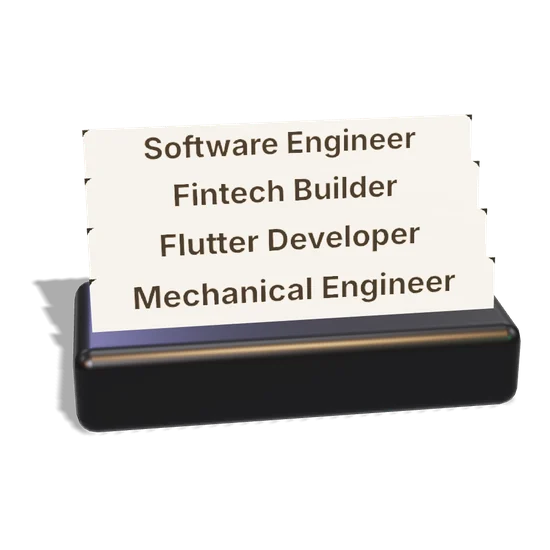
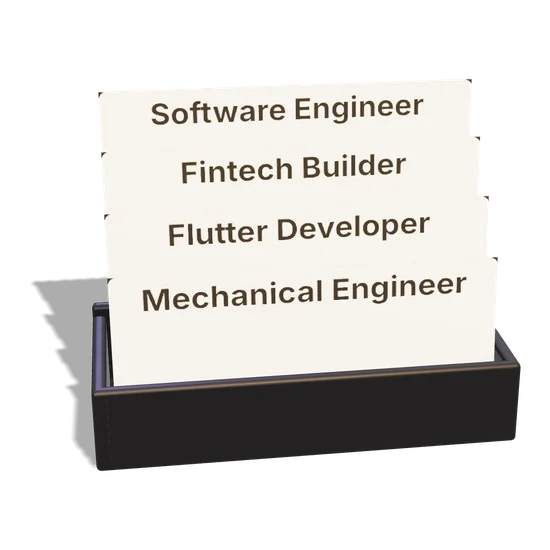
Card box for role cards

diff --git a/js/scene.js b/js/scene.js
@@ -779,21 +779,34 @@
   }
   hot(frame, "About me", () => DESK.openPanel("about"));
 
-  /* ---- role cards holder (index-card tray) ---- */
+  /* ---- role cards holder: an open-top card box, cards standing inside it ---- */
   const roles = new THREE.Group();
   {
-    const tray = new THREE.Mesh(new RoundedBoxGeometry(0.34, 0.07, 0.15, 2, 0.015), M.metal);
-    tray.position.y = 0.035;
-    roles.add(tray);
+    const BW = 0.36, BD = 0.16, BH = 0.075, T = 0.012;            // box width / depth / wall height / wall thickness
+    const shell = new THREE.MeshStandardMaterial({ color: "#1E1F24", roughness: 0.4, metalness: 0.55 });
+    const inside = new THREE.MeshStandardMaterial({ color: "#0C0C0F", roughness: 0.9 });
+    const wall = (w, h, d, x, y, z, m) => { const b = new THREE.Mesh(new RoundedBoxGeometry(w, h, d, 2, 0.004), m || shell); b.position.set(x, y, z); roles.add(b); };
+    wall(BW, BH, T, 0, BH / 2, BD / 2 - T / 2);                     // front lip (hides the card bottoms)
+    wall(BW, BH + 0.01, T, 0, (BH + 0.01) / 2, -BD / 2 + T / 2);    // back
+    wall(T, BH, BD, -BW / 2 + T / 2, BH / 2, 0);                    // sides
+    wall(T, BH, BD, BW / 2 - T / 2, BH / 2, 0);
+    wall(BW, 0.01, BD, 0, 0.005, 0);                                // floor
+    const well = new THREE.Mesh(new THREE.PlaneGeometry(BW - 2 * T, BD - 2 * T), inside);  // dark interior seen from above
+    well.rotation.x = -Math.PI / 2; well.position.y = 0.011; roles.add(well);
+    const n = S.roles.length, CH = 0.15, STEP = 0.042;
     S.roles.forEach((r, i) => {
-      const tex = canvasTex(512, 120, (g, w, h) => {
-        g.fillStyle = "#EFE9DD"; roundRect(g, 0, 0, w, h, 14); g.fill();
-        g.fillStyle = C.ink; g.font = `650 40px ${FONT}`; g.textAlign = "center"; g.textBaseline = "middle";
-        g.fillText(r, w / 2, 30);
+      const tex = canvasTex(512, 248, (g, w, h) => {
+        g.fillStyle = "#F1ECE1"; roundRect(g, 0, 0, w, h, 12); g.fill();
+        g.fillStyle = "rgba(22,19,14,.08)"; g.fillRect(0, 0, w, 3);
+        g.fillStyle = C.ink; g.font = `650 42px ${FONT}`; g.textAlign = "center"; g.textBaseline = "middle";
+        g.fillText(r, w / 2, 36);
       });
-      const card = new THREE.Mesh(new THREE.BoxGeometry(0.31, 0.072, 0.004), [M.paper, M.paper, M.paper, M.paper, new THREE.MeshStandardMaterial({ map: tex, roughness: 0.85 }), M.paper]);
-      card.position.set(0, 0.075 + (S.roles.length - 1 - i) * 0.03, -0.05 + i * 0.028);
-      card.rotation.x = -0.12;
+      const card = new THREE.Mesh(new THREE.BoxGeometry(BW - 2 * T - 0.012, CH, 0.003),
+        [M.paper, M.paper, M.paper, M.paper, new THREE.MeshStandardMaterial({ map: tex, roughness: 0.85 }), M.paper]);
+      const lift = (n - 1 - i) * STEP;                              // back cards stand taller
+      card.position.set(0, 0.012 + CH / 2 + lift, -BD / 2 + T + 0.018 + i * ((BD - 2 * T - 0.03) / (n - 1)));
+      card.rotation.x = -0.1;
+      card.castShadow = true;
       roles.add(card);
     });
     roles.position.set(-1.0, TOP, DESK_Z - 0.18);
